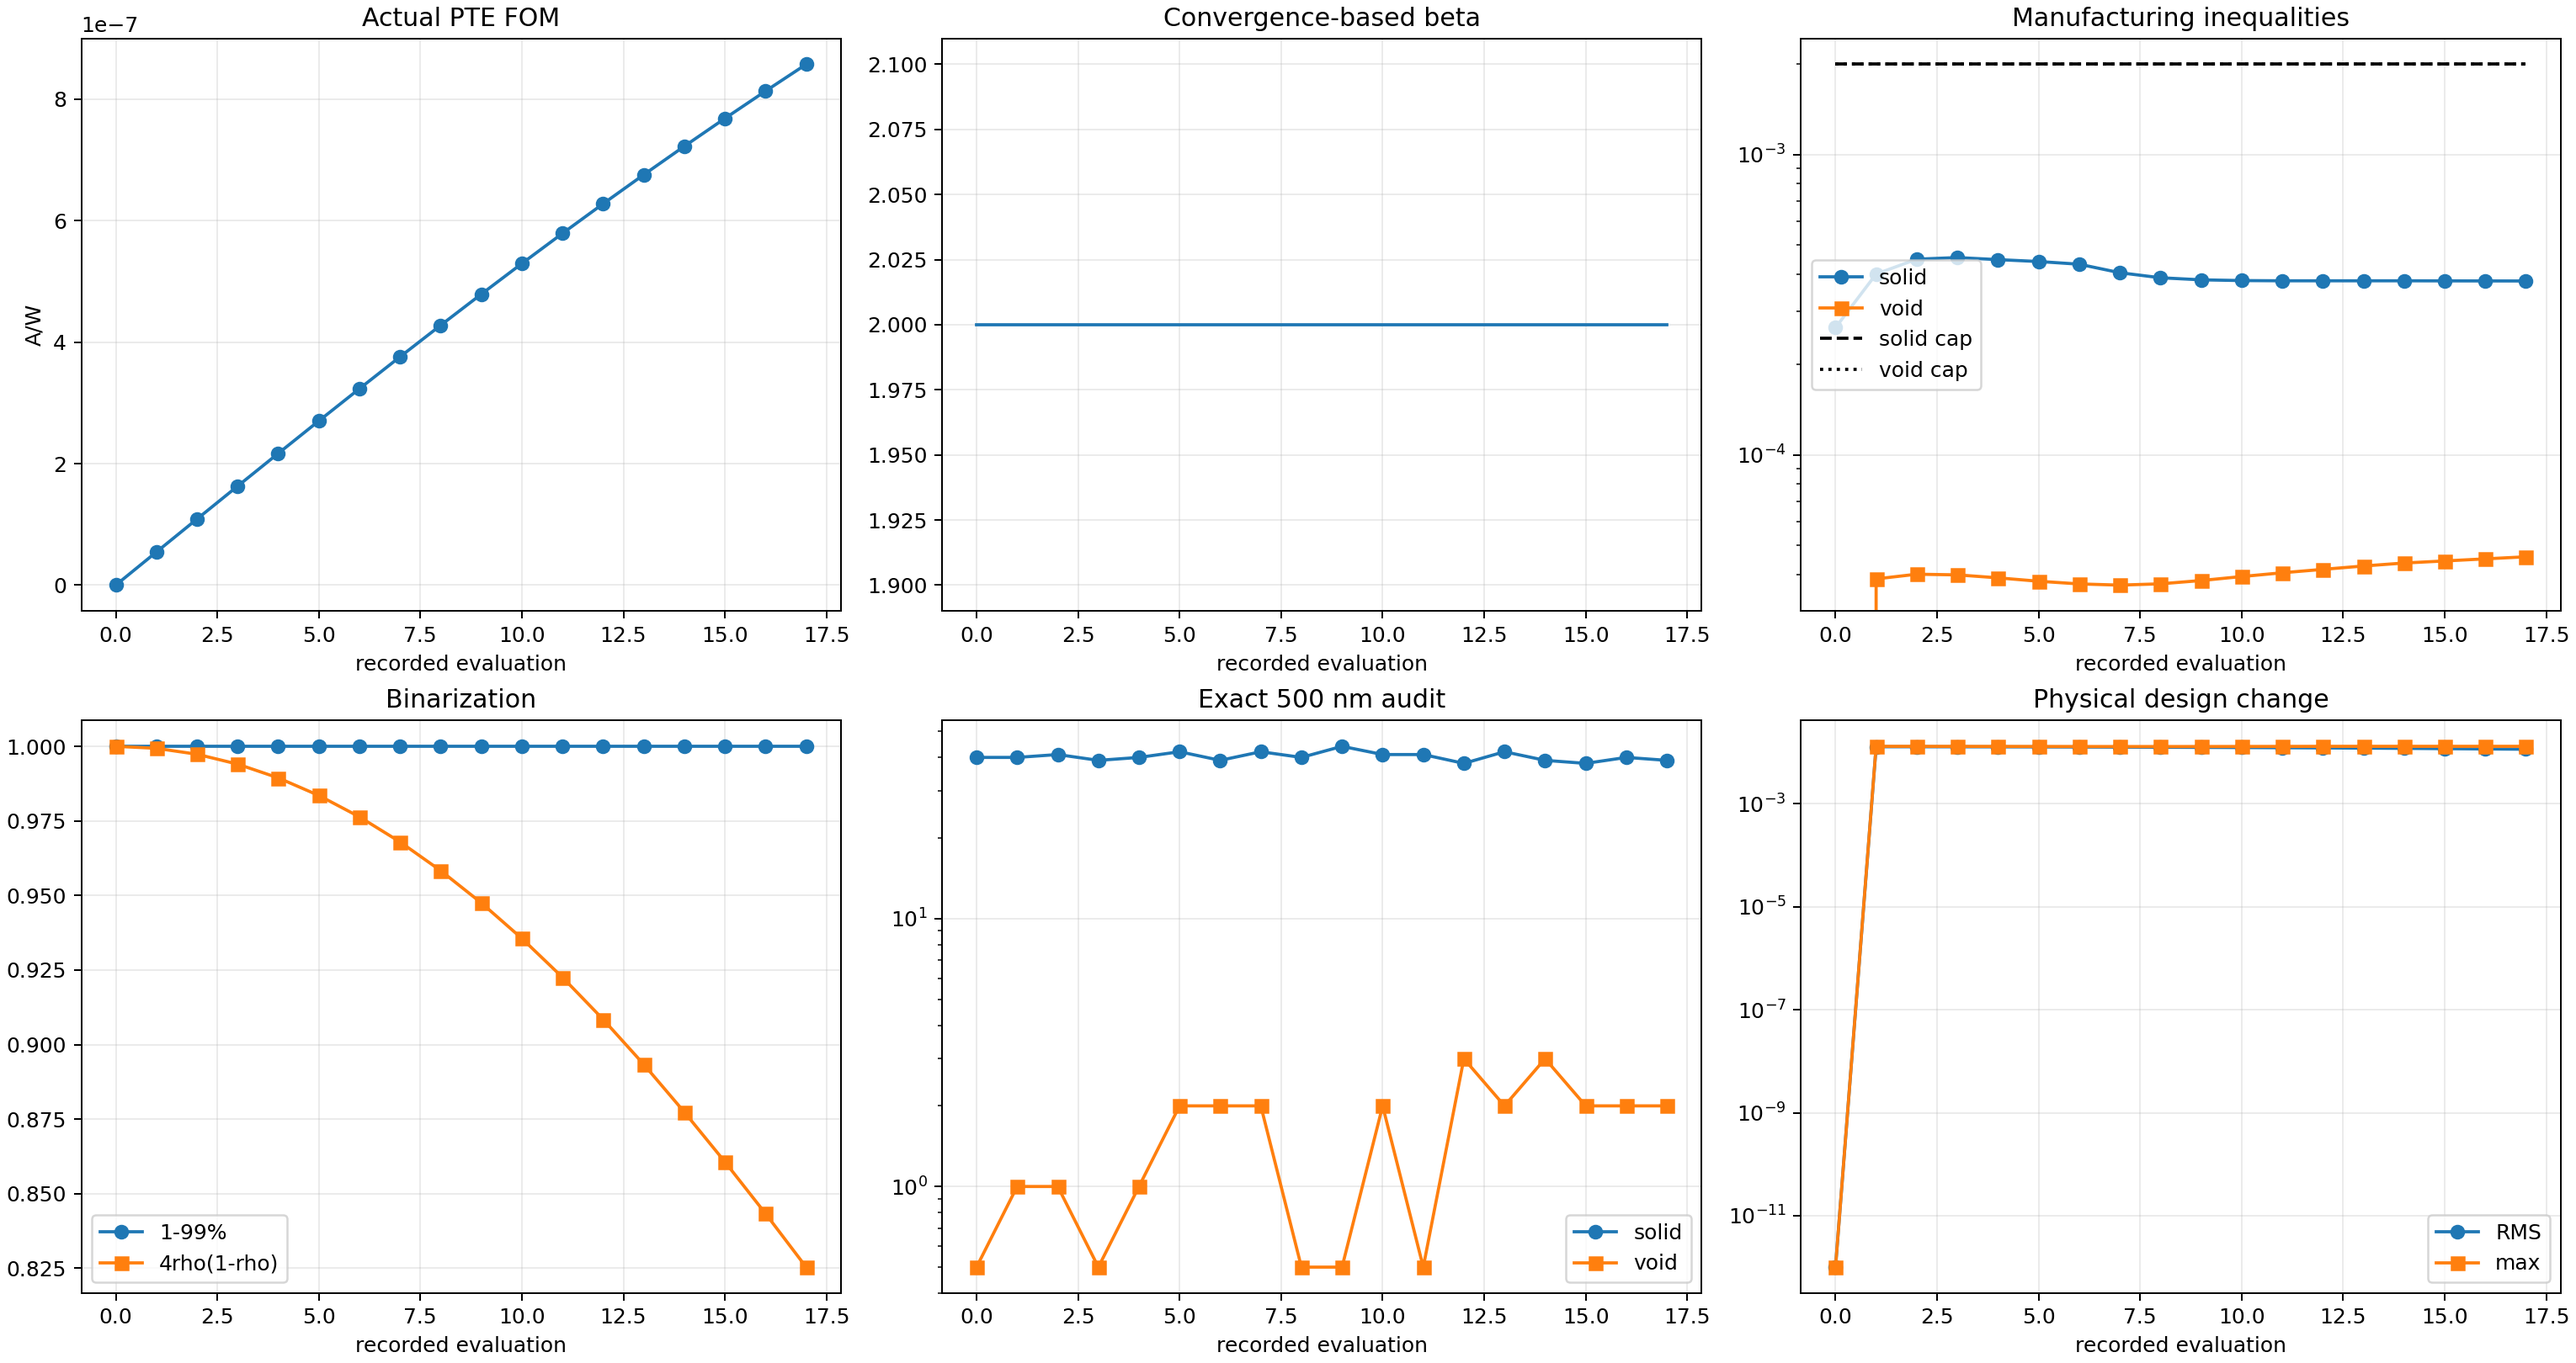
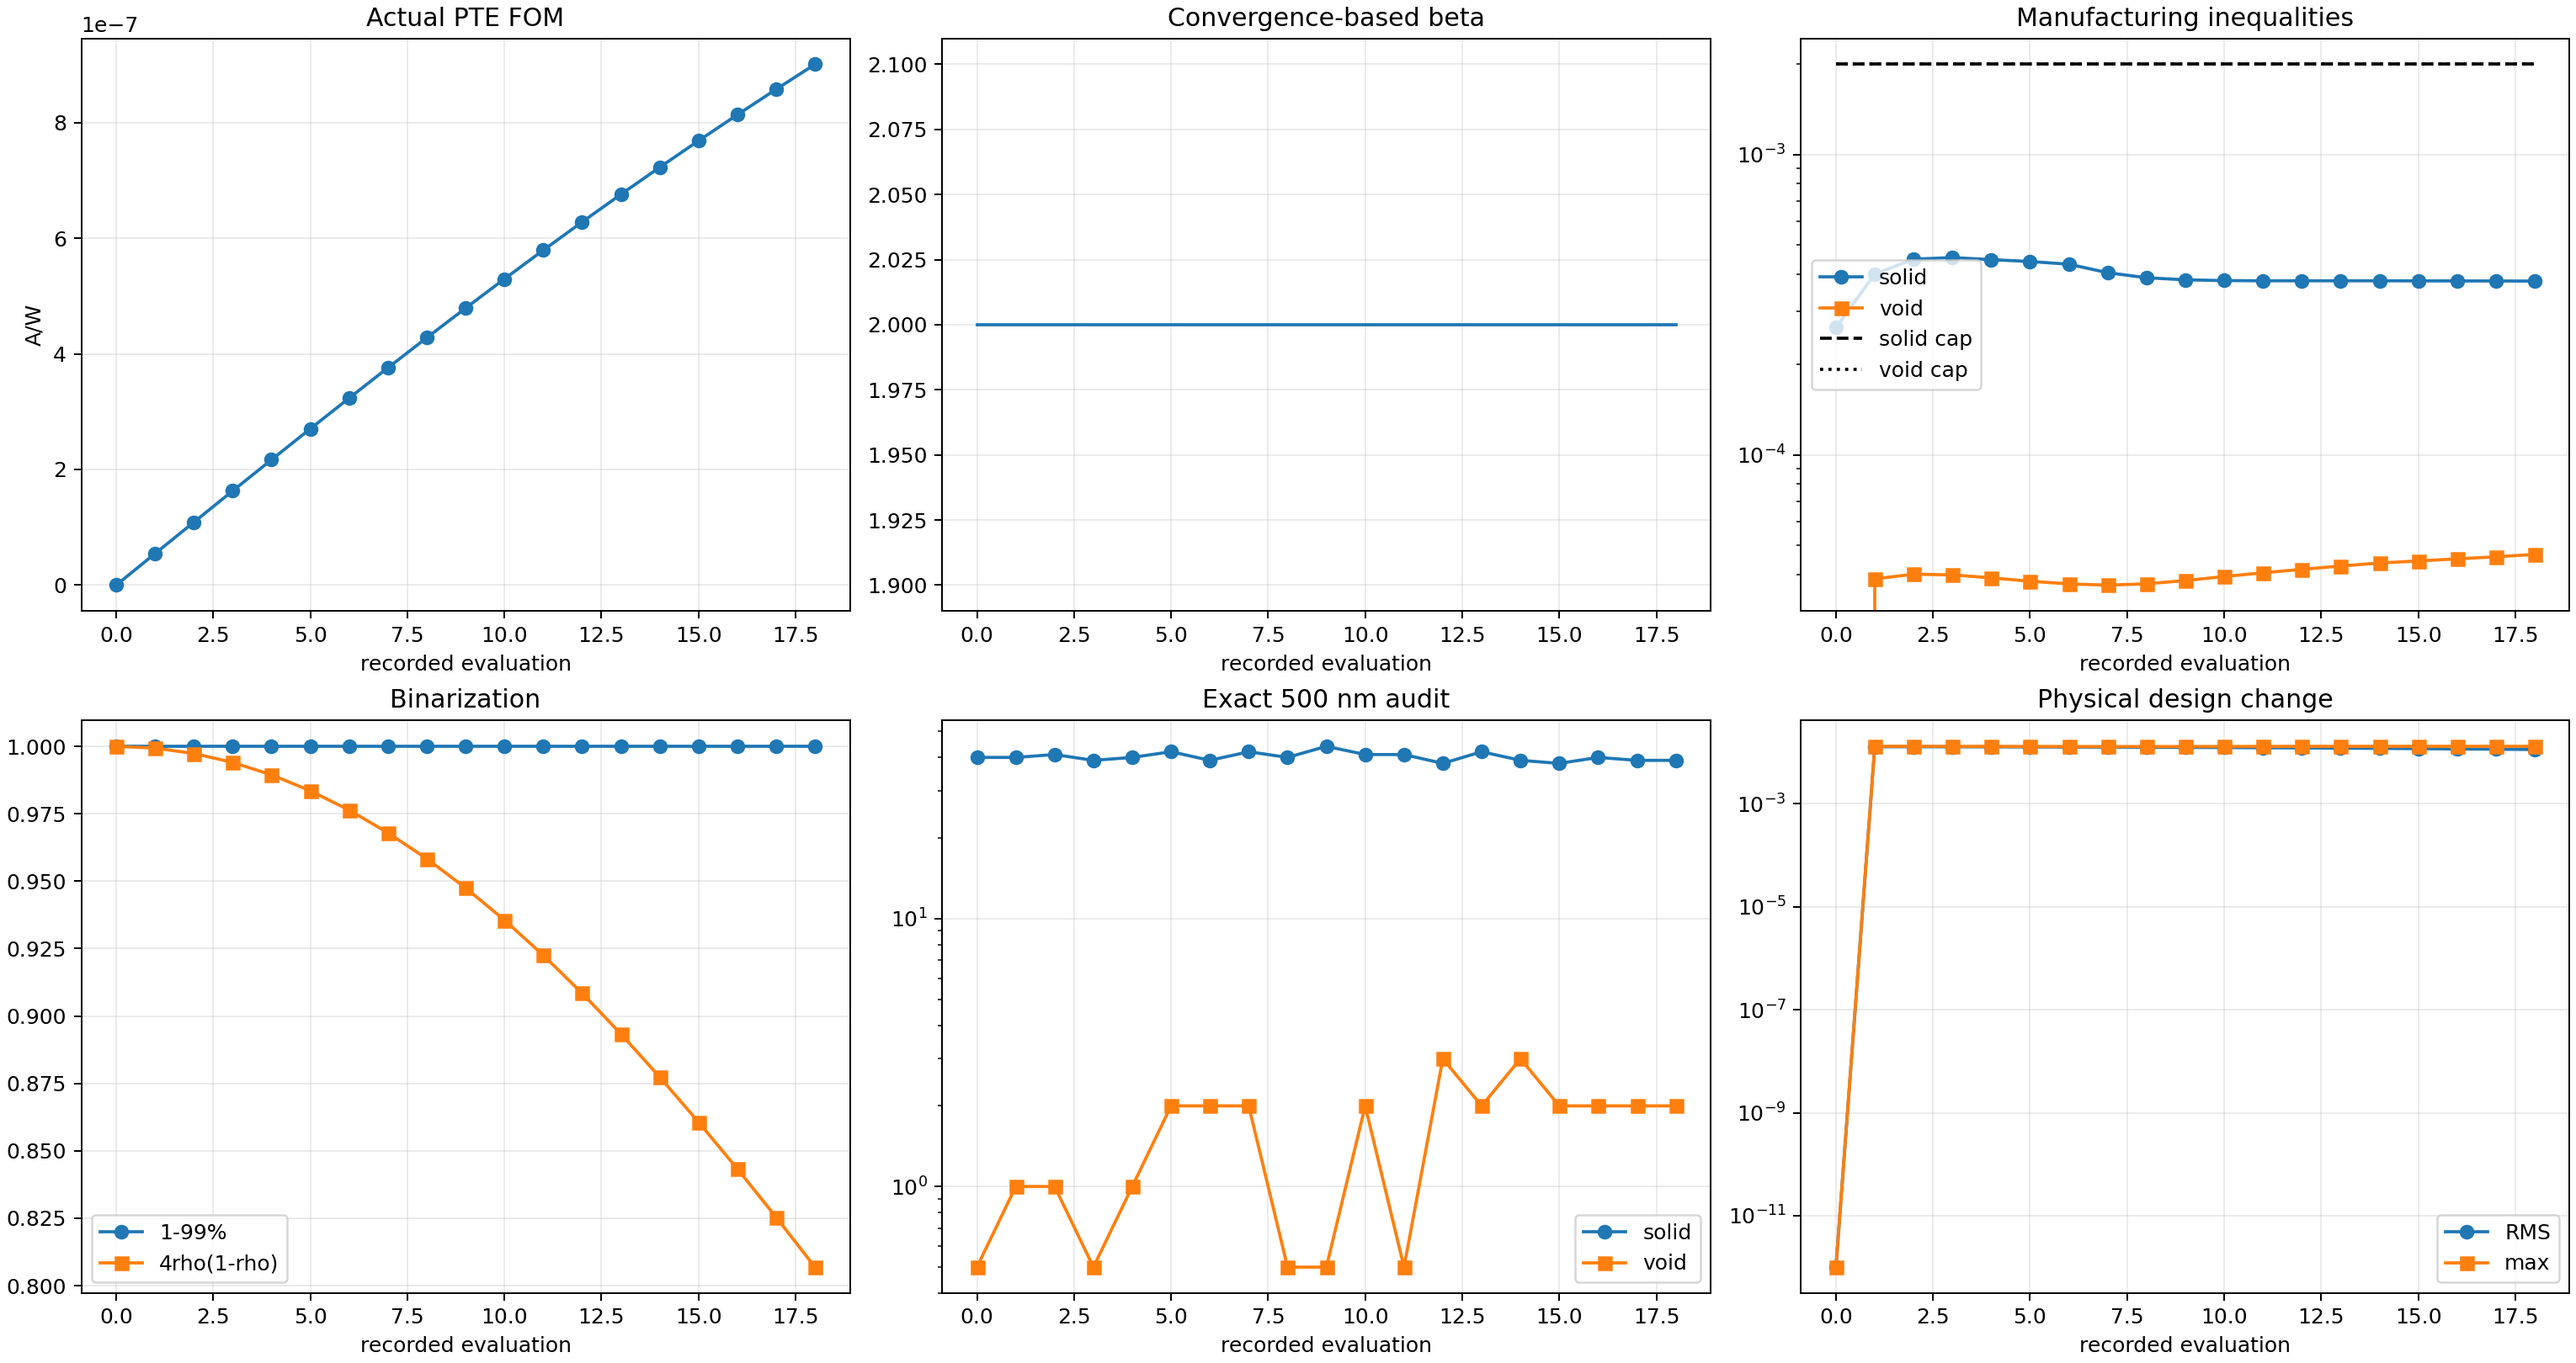
Record Run 005 run009_Ea_uniform_b002_s018_g018_accepted_mma

diff --git a/photothermal_pte/optimization_runs/run_009_uniform_Ea_from_scratch/results/OPTIMIZATION_REPORT.md b/photothermal_pte/optimization_runs/run_009_uniform_Ea_from_scratch/results/OPTIMIZATION_REPORT.md
@@ -2,11 +2,11 @@
 
 Status: `RUNNING_EXACT_UNIFORM_EA_OBJECTIVE_FIRST_OPTIMIZATION`
 
-Current stage: beta=2, accepted stage iteration=17, global iteration=17.
+Current stage: beta=2, accepted stage iteration=18, global iteration=18.
 
 Constraint contract: `soft_disk_opening_500nm_from_iteration_zero_v5`.
 
-Actual FOM: `8.574583085667e-07 A/W`. Fixed-cap solid/void constraints: `3.796832e-04` / `4.579031e-05` with caps `2.000000e-03` / `2.000000e-03`.
+Actual FOM: `9.006177639889e-07 A/W`. Fixed-cap solid/void constraints: `3.793827e-04` / `4.663154e-05` with caps `2.000000e-03` / `2.000000e-03`.
 
 Exact 500 nm bad cells: solid `39`, void `2`. Stage convergence: `False` (recent FOM/density changes have not plateaued).
 
